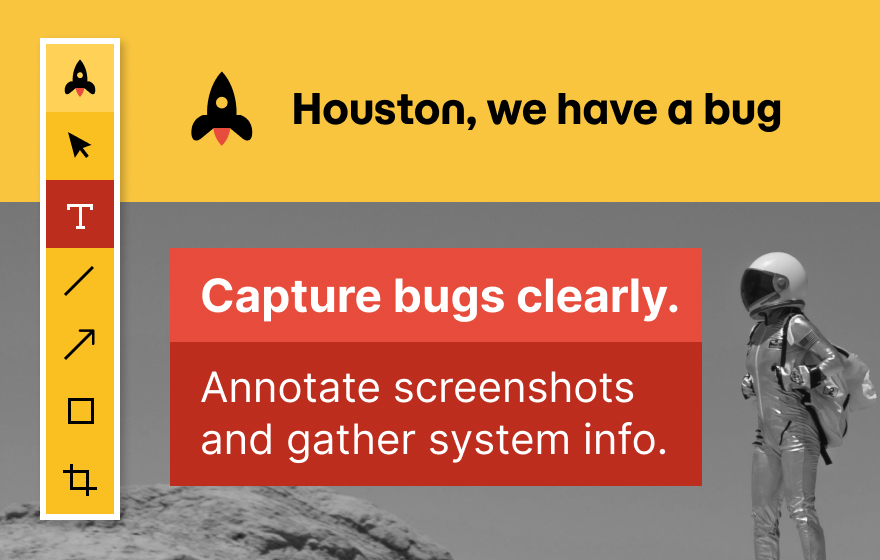
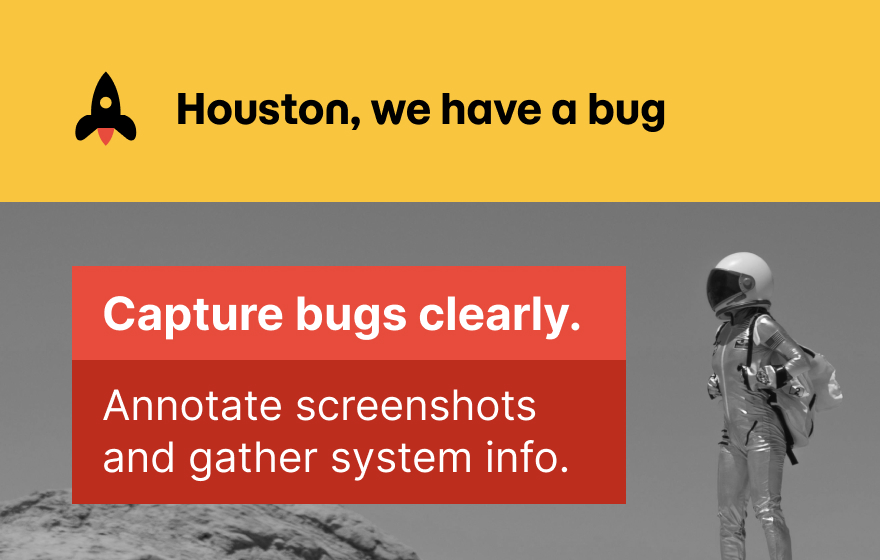
Update tile image and readme

diff --git a/README.md b/README.md
@@ -13,7 +13,7 @@
 ![Build](https://img.shields.io/badge/build-esbuild-lightgrey)
 
 <img
-  src="src/images/extension-presentation/hb-small-promo-tile-440x280@2x.jpg?v=2"
+  src="src/images/extension-presentation/hb-small-promo-tile-440x280@2x.jpg?v=3"
   width="440"
   alt="Houston, we have a bug"
 />
